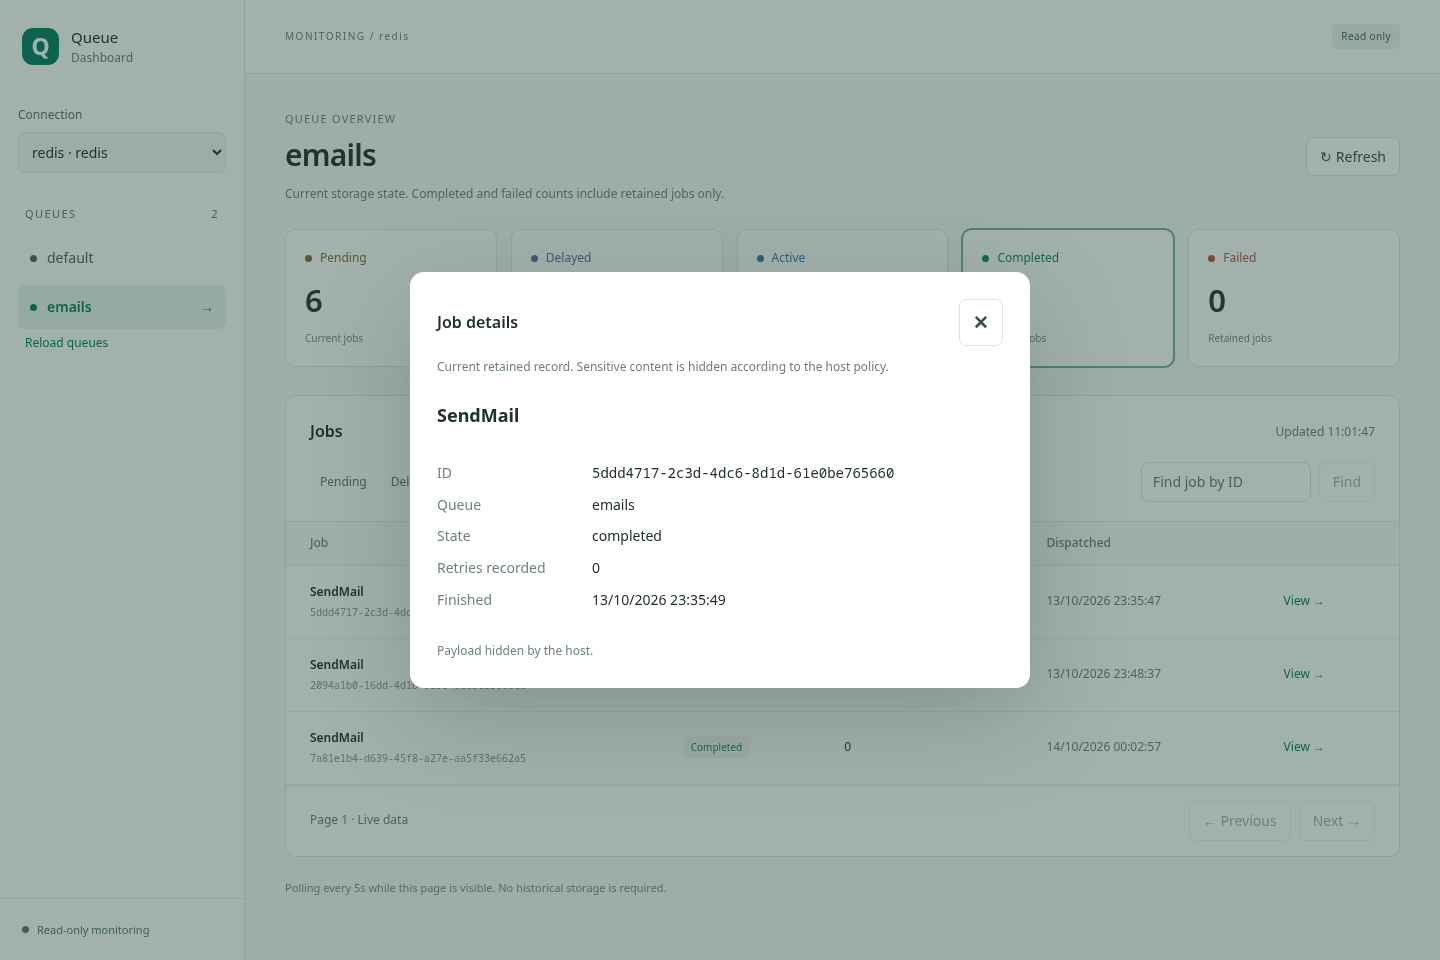
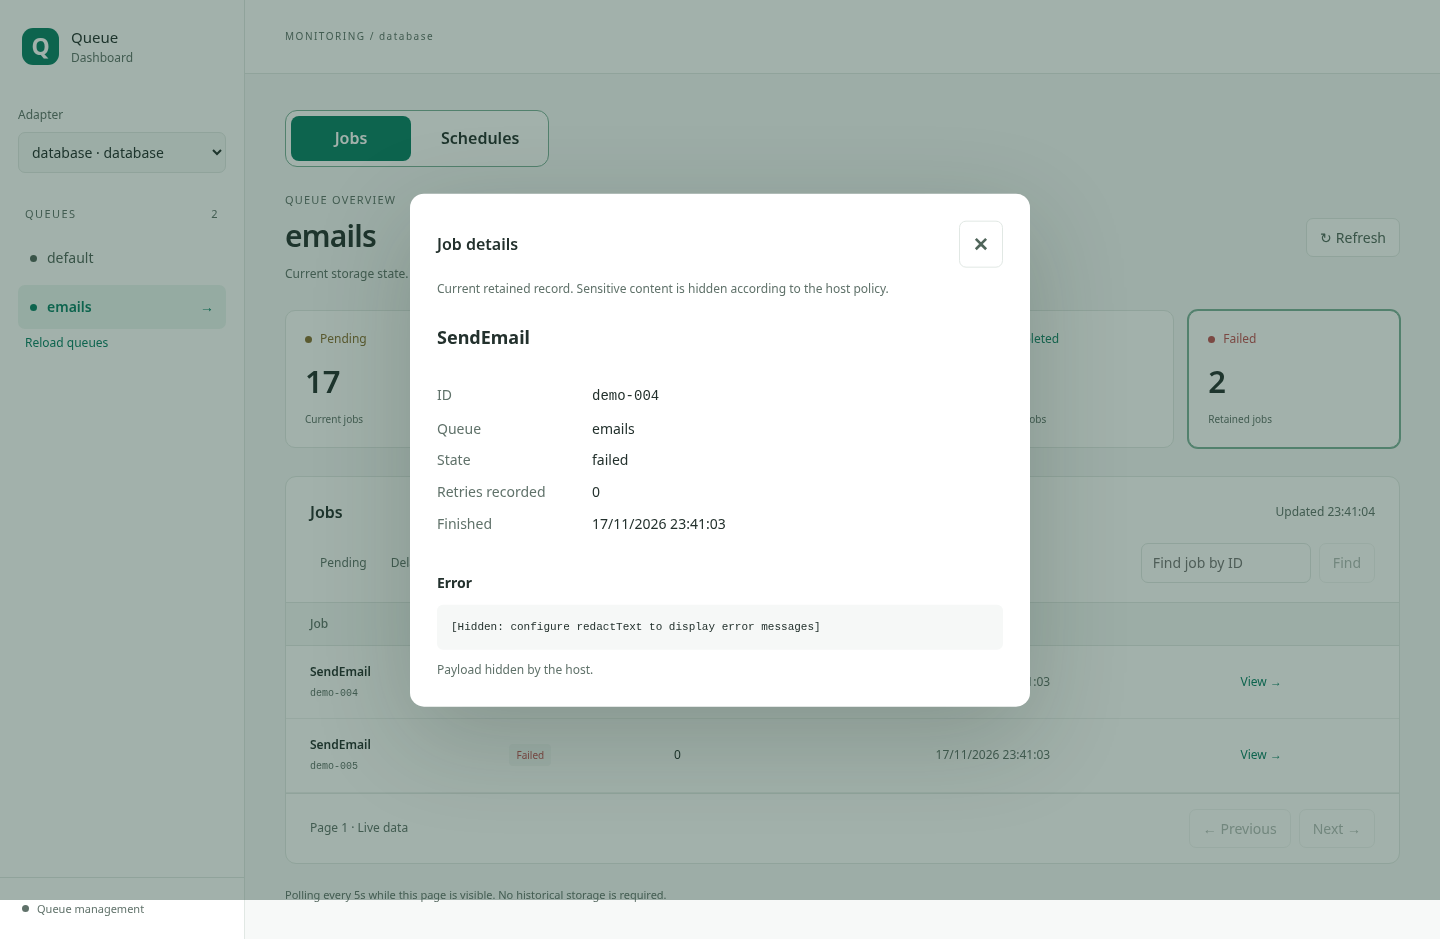
chore: update screenshot

diff --git a/README.md b/README.md
@@ -12,7 +12,11 @@ The 0.9 storage family was audited against 0.9.0 and 0.9.1; new minor versions a
 prereleases require a separate compatibility review.
 Unknown storage versions fall back to the public Queue API.
 
-![Queue dashboard in Mira showing the emails queue, job counts, and retained completed jobs](docs/images/dashboard-jobs.png)
+![Jobs in light mode showing the emails queue, job counts, and the jobs table](docs/images/dashboard-jobs.png)
+
+![The same Jobs view in dark mode](docs/images/dashboard-jobs-dark.png)
+
+![Schedules view showing recurring jobs, their status, and their next run](docs/images/dashboard-schedules.png)
 
 ## Installation
 
@@ -287,7 +291,7 @@ credentials, cookie, authorization, and their variants are redacted recursively.
 The callback processes strings and errors before serialization. The page renders
 values as escaped text.
 
-Job details in Mira, with the payload hidden by the host's redaction policy:
+The demo shows job details with the payload hidden by the host's redaction policy.
 
 ![Job details showing the queue, state, recorded retries, and finish time with the payload hidden](docs/images/dashboard-job-details.png)
 
